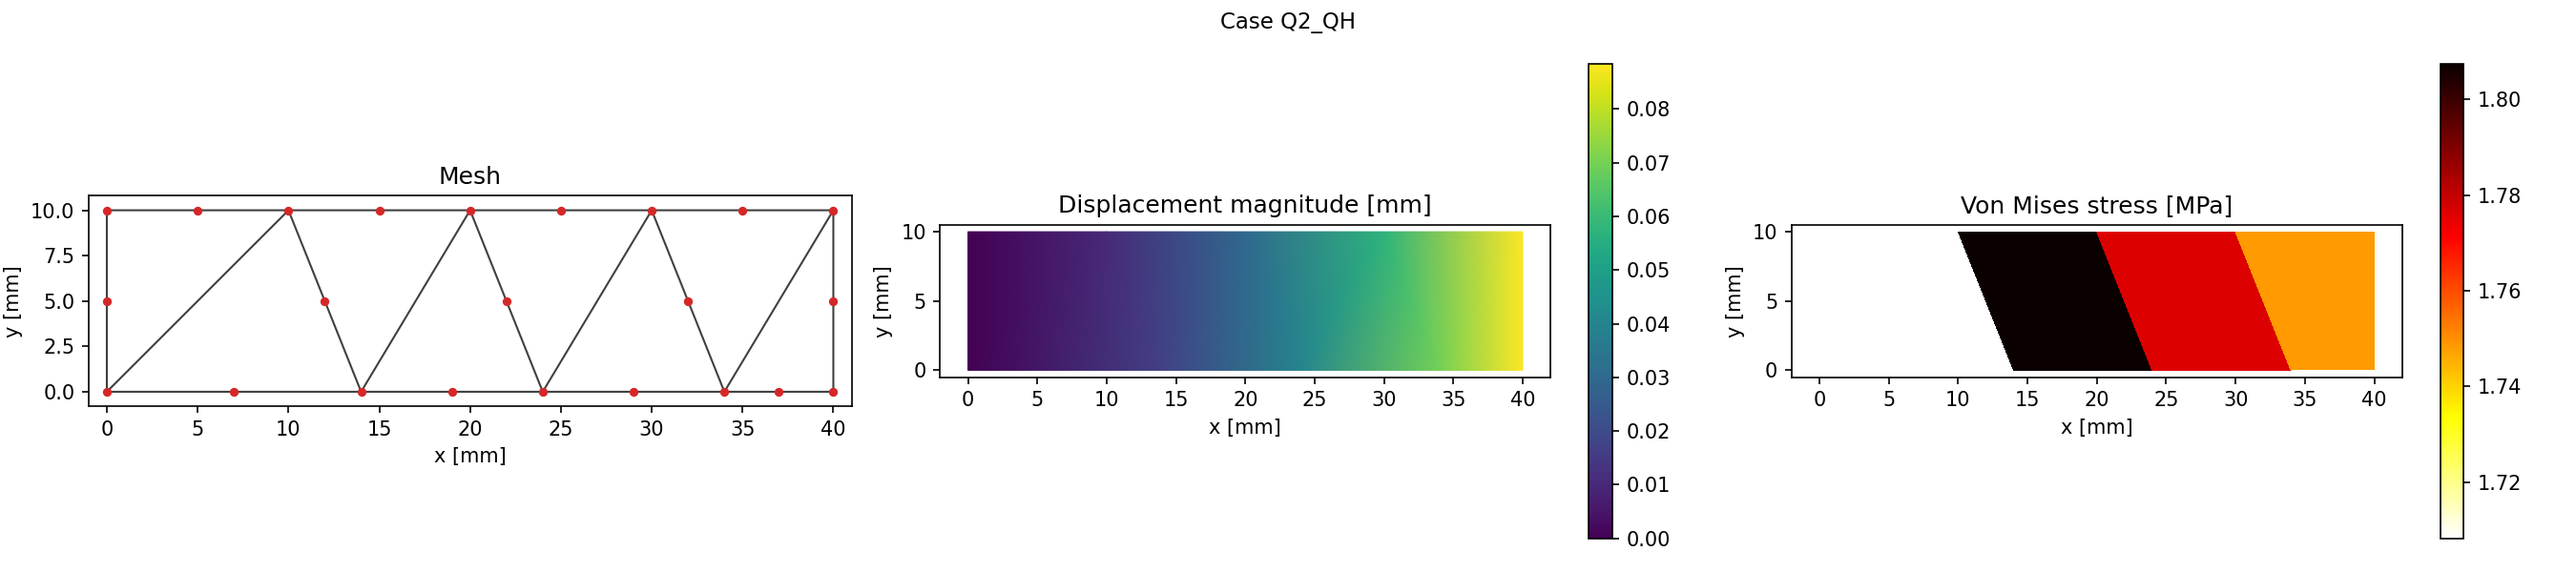
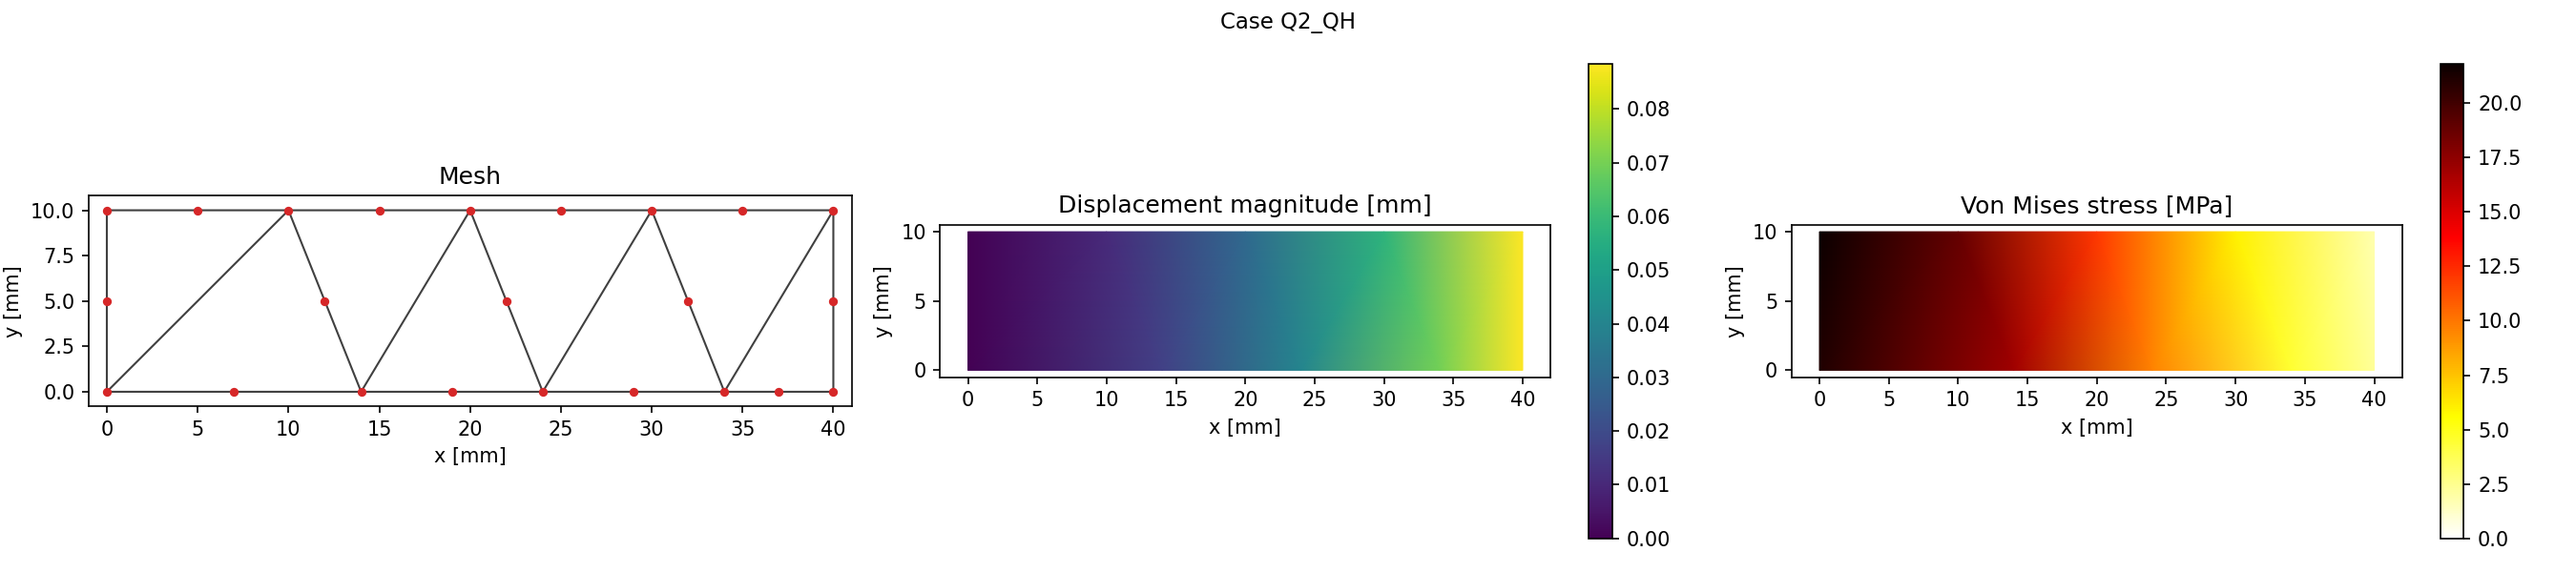
sec 2.1.2: switch Von Mises plot to nodal-averaged Gouraud shading for correct bending stress display

diff --git a/sec_02/2.1/2/fem_plane_stress_beam.py b/sec_02/2.1/2/fem_plane_stress_beam.py
@@ -169,6 +169,7 @@ class CaseResult:
     tip_deflection_mm: float
     sigma_x_fixed_end_MPa: float
     tau_xy_neutral_axis_MPa: float
+    nodal_vm: np.ndarray | None = None  # Von Mises averaged at corner nodes (for smooth plot)
 
 
 # ---------------------------------------------------------------------------
@@ -1208,6 +1209,89 @@ def compute_element_stress(
     return np.asarray(elem_stress), np.asarray(centers), np.asarray(vm_list)
 
 
+def compute_nodal_vm(
+    nodes: np.ndarray,
+    elements: np.ndarray,
+    displacements: np.ndarray,
+    constitutive: np.ndarray,
+    element_version: str,
+) -> np.ndarray:
+    """Compute Von Mises stress averaged at each corner node.
+
+    For each element the stress is evaluated at its corner nodes in natural
+    coordinates, then accumulated and averaged over all elements sharing a
+    node.  This produces a smooth nodal field suitable for Gouraud shading,
+    which correctly shows bending stress varying through the element height
+    even when ny=1 (a known limitation of centroid-based evaluation).
+
+    Args:
+        nodes: Shape (N, 2) node coordinates.
+        elements: Shape (E, n_nodes_per_elem) connectivity.
+        displacements: Flattened displacement vector (2N,).
+        constitutive: 3x3 constitutive matrix.
+        element_version: 'TL', 'QL', 'QH', or 'TH'.
+
+    Returns:
+        nodal_vm: Shape (N,) Von Mises stress at each node (0 for unreferenced).
+    """
+    # Natural coordinates of corner nodes for each element type.
+    # Q4/Q8: (xi, eta) at SW, SE, NE, NW corners.
+    _q4_corners = [(-1.0, -1.0), (1.0, -1.0), (1.0, 1.0), (-1.0, 1.0)]
+    # T3/T6: (L1, L2) barycentric at vertex 1, 2, 3 (L3 = 1-L1-L2).
+    _t_corners = [(1.0, 0.0), (0.0, 1.0), (0.0, 0.0)]
+
+    n_nodes = nodes.shape[0]
+    vm_sum = np.zeros(n_nodes, dtype=float)
+    vm_cnt = np.zeros(n_nodes, dtype=int)
+
+    for conn in elements:
+        coords = nodes[conn]
+        ue = np.zeros(2 * conn.size, dtype=float)
+        for loc_i, nid in enumerate(conn):
+            ue[2 * loc_i] = displacements[2 * nid]
+            ue[2 * loc_i + 1] = displacements[2 * nid + 1]
+
+        if element_version == "TL":
+            # CST: constant strain/stress - same value at all 3 corners.
+            b_mat, _ = cst_b_matrix(coords)
+            sigma = constitutive @ (b_mat @ ue)
+            vm = von_mises_plane_stress(float(sigma[0]), float(sigma[1]), float(sigma[2]))
+            for nid in conn:
+                vm_sum[nid] += vm
+                vm_cnt[nid] += 1
+
+        elif element_version == "QL":
+            for (xi, eta), nid in zip(_q4_corners, conn):
+                b_mat, _ = q4_b_matrix(coords, xi, eta)
+                sigma = constitutive @ (b_mat @ ue)
+                vm = von_mises_plane_stress(float(sigma[0]), float(sigma[1]), float(sigma[2]))
+                vm_sum[nid] += vm
+                vm_cnt[nid] += 1
+
+        elif element_version == "QH":
+            # Corner nodes are the first 4 entries; midside nodes are conn[4:8].
+            for (xi, eta), nid in zip(_q4_corners, conn[:4]):
+                b_mat, _ = q8_b_matrix(coords, xi, eta)
+                sigma = constitutive @ (b_mat @ ue)
+                vm = von_mises_plane_stress(float(sigma[0]), float(sigma[1]), float(sigma[2]))
+                vm_sum[nid] += vm
+                vm_cnt[nid] += 1
+
+        else:  # TH
+            # Corner nodes are the first 3 entries; midside nodes are conn[3:6].
+            for (L1, L2), nid in zip(_t_corners, conn[:3]):
+                b_mat, _ = t6_b_matrix(coords, L1, L2)
+                sigma = constitutive @ (b_mat @ ue)
+                vm = von_mises_plane_stress(float(sigma[0]), float(sigma[1]), float(sigma[2]))
+                vm_sum[nid] += vm
+                vm_cnt[nid] += 1
+
+    mask = vm_cnt > 0
+    nodal_vm = np.zeros(n_nodes, dtype=float)
+    nodal_vm[mask] = vm_sum[mask] / vm_cnt[mask]
+    return nodal_vm
+
+
 # ---------------------------------------------------------------------------
 # Cross-section extraction
 # ---------------------------------------------------------------------------
@@ -1281,6 +1365,7 @@ def solve_case(
     elapsed = time.perf_counter() - start
 
     stress, centers, von_mises = compute_element_stress(nodes, elements, displacements, constitutive, element_version)
+    nodal_vm = compute_nodal_vm(nodes, elements, displacements, constitutive, element_version)
 
     # Tip deflection: mean uy of all right-face nodes in original mesh.
     right_node_ids = np.unique(mesh.right_edges.ravel())
@@ -1346,6 +1431,7 @@ def solve_case(
         element_stress=stress,
         element_centers=centers,
         von_mises=von_mises,
+        nodal_vm=nodal_vm,
         dof_count=displacements.size,
         max_disp=max_disp,
         max_von_mises=float(np.max(von_mises)),
@@ -1431,17 +1517,14 @@ def plot_case_combined(
     ax1.set_xlabel("x [mm]")
     ax1.set_ylabel("y [mm]")
 
-    # Panel 2: Von Mises stress (flat shading per element)
+    # Panel 2: Von Mises stress (Gouraud shading on nodal-averaged values)
     ax2 = axes[2]
     ax2.set_title("Von Mises stress [MPa]")
     ax2.set_aspect("equal")
-    vm = result.von_mises
-    # Quad elements split into 2 triangles each; tri elements map 1:1.
-    if mesh.tri_elements is not None:
-        vm_per_tri = vm
-    else:
-        vm_per_tri = np.repeat(vm, 2)
-    tc2 = ax2.tripcolor(triang_corner, facecolors=vm_per_tri, cmap="hot_r")
+    # nodal_vm is defined over mesh.nodes (corner + possible midside nodes);
+    # triang_corner only references corner indices so only those values matter.
+    nodal_vm = result.nodal_vm if result.nodal_vm is not None else np.zeros(mesh.nodes.shape[0])
+    tc2 = ax2.tripcolor(triang_corner, nodal_vm[: mesh.nodes.shape[0]], shading="gouraud", cmap="hot_r")
     plt.colorbar(tc2, ax=ax2)
     ax2.set_xlabel("x [mm]")
     ax2.set_ylabel("y [mm]")
